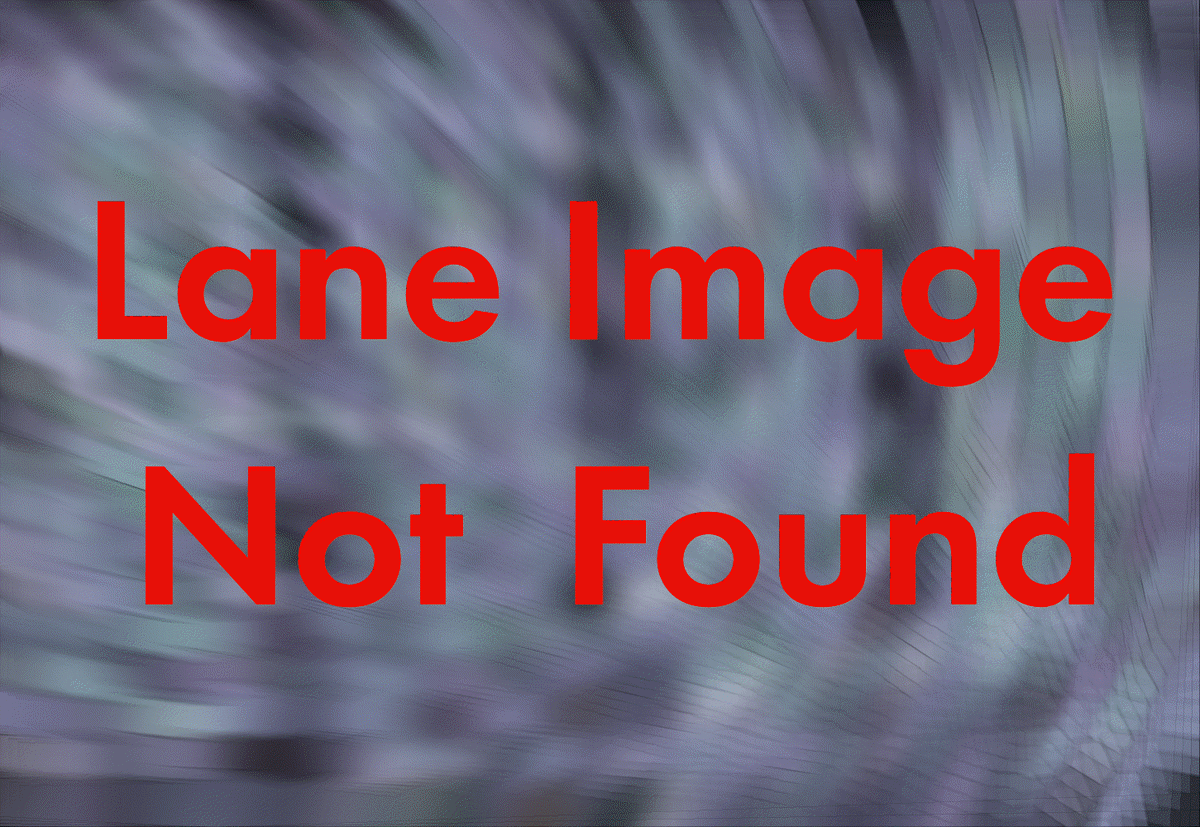
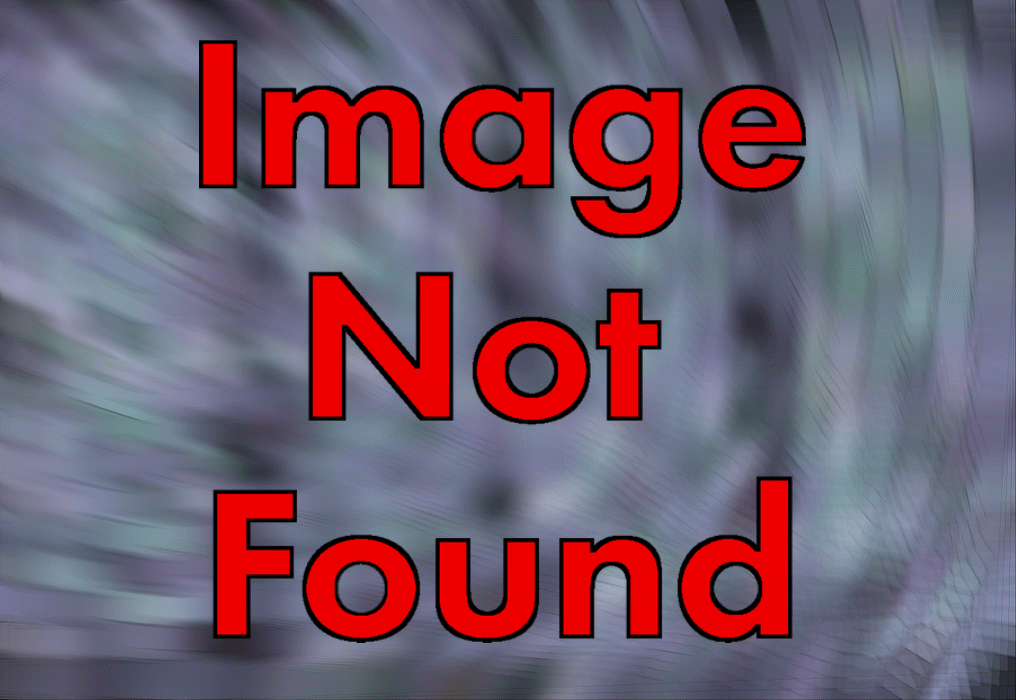
IO-485: Use report.pdf as a backup source for bead density image

Changed region(s): [[0.061, 0.06, 0.9459, 0.93]]

diff --git a/IonInspector/reports/diagnostics/Genexus_Lane_Activity/main.py b/IonInspector/reports/diagnostics/Genexus_Lane_Activity/main.py
@@ -1,9 +1,11 @@
 #!/usr/bin/env python
 
 import os
-import logging
 import shutil
+from logging import getLogger
 from collections import OrderedDict
+from subprocess import check_call
+
 from django.conf import settings
 
 from IonInspector.reports.diagnostics.common.inspector_utils import (
@@ -14,23 +16,15 @@ from IonInspector.reports.diagnostics.common.inspector_utils import (
     write_results_from_template,
     get_filePath,
 )
+from IonInspector.reports.diagnostics.common.inspector_errors import FileNotFoundError
 from IonInspector.reports.values import (
     BEAD_DENSITY_FILE_NAME,
     NO_BEAD_IMAGE_FILE,
     NO_BEAD_IMAGE_URL,
+    RUN_REPORT_PDF,
 )
 
-# NO_BEAD_IMAGE_URL = "static/img/no-bead-density-found.png"
-# NO_BEAD_IMAGE_FILE = os.path.normpath(
-# os.path.join(
-# os.path.dirname(
-# os.path.realpath(__file__)
-# ),
-# "../../../" + NO_BEAD_IMAGE_URL
-# )
-# )
-
-logger = logging.getLogger(__name__)
+logger = getLogger(__name__)
 
 
 def get_total_reads(archive_path, archive_type):
@@ -40,6 +34,8 @@ def get_total_reads(archive_path, archive_type):
 
 
 def execute(archive_path, output_path, archive_type):
+    total_reads = 0
+    active_lanes = -1
     data = read_explog(archive_path)
     lanes = OrderedDict()
     image_messages = []
@@ -82,6 +78,9 @@ def execute(archive_path, output_path, archive_type):
                         )
                     except IOError:
                         image_messages.append("Could not find '{}'".format(filename))
+    except FileNotFoundError as err:
+        logger.error(err.file_path)
+        image_messages.append("Could not find '{}'".format(err.file_path))
     finally:
         # copy bead density
         bead_image_path = os.path.join(output_path, BEAD_DENSITY_FILE_NAME)
@@ -89,37 +88,50 @@ def execute(archive_path, output_path, archive_type):
         try:
             bead_image_found = get_filePath(archive_path, BEAD_DENSITY_FILE_NAME)
             if bead_image_found is None:
-                bead_messages.append("Could not find bead density image!")
-                os.symlink(NO_BEAD_IMAGE_FILE, bead_image_path)
-            else:
-                bead_image_url = settings.MEDIA_URL + os.path.relpath(
-                    bead_image_path, settings.MEDIA_ROOT
-                )
-                os.symlink(bead_image_found, bead_image_path)
+                report_pdf_path = os.path.join(archive_path, RUN_REPORT_PDF)
+                if os.path.exists(report_pdf_path):
+                    extract_util = [
+                        "./IonInspector/reports/diagnostics/Genexus_Lane_Activity/extract_bead_density.sh",
+                        output_path,
+                    ]
+                    check_call(extract_util)
+                if os.path.exists(bead_image_path):
+                    bead_image_found = bead_image_path
+                else:
+                    bead_messages.append("Could not find bead density image!")
         except IOError as err:
+            bead_image_found = None
             bead_messages.append(
                 "I/O Error accessing bead density image: " + err.message
             )
-            bead_image_url = NO_BEAD_IMAGE_URL
+        if bead_image_found is None:
             os.symlink(NO_BEAD_IMAGE_FILE, bead_image_path)
+        else:
+            bead_image_url = settings.MEDIA_URL + os.path.relpath(
+                bead_image_path, settings.MEDIA_ROOT
+            )
+            if bead_image_found != bead_image_path:
+                os.symlink(bead_image_found, bead_image_path)
 
     # write template
-    write_results_from_template(
-        {
-            "lanes": lanes,
-            "bead_image_url": bead_image_url,
-            "total_reads": total_reads,
-            "active_lanes": active_lanes,
-            "average_reads_per_lane": total_reads / active_lanes,
-        },
-        output_path,
-        os.path.dirname(os.path.realpath(__file__)),
-    )
+    if active_lanes > 0:
+        write_results_from_template(
+            {
+                "lanes": lanes,
+                "bead_image_url": bead_image_url,
+                "total_reads": total_reads,
+                "active_lanes": active_lanes,
+                "average_reads_per_lane": total_reads / active_lanes,
+            },
+            output_path,
+            os.path.dirname(os.path.realpath(__file__)),
+        )
 
     messages = bead_messages + [
         "<strong>L{}</strong> {}".format(k, v[1]) for k, v in lanes.items() if v[0]
     ]
-    # image_messages
+
+    # summary message and result code
     if len(image_messages) > 0:
         if len(image_messages) > 1:
             messages.append(
@@ -128,6 +140,6 @@ def execute(archive_path, output_path, archive_type):
         else:
             messages.extend(image_messages)
     message = "<br>".join(messages)
-    if len(bead_messages) > 0:
+    if active_lanes <= 0 or len(bead_messages) > 0:
         return print_failed(message)
     return print_info(message)

diff --git a/IonInspector/reports/diagnostics/common/inspector_utils.py b/IonInspector/reports/diagnostics/common/inspector_utils.py
@@ -16,7 +16,7 @@ from bs4 import BeautifulSoup
 from django.core.serializers.json import DjangoJSONEncoder
 from django.template import Context, Template
 from django.template.backends.django import DjangoTemplates
-from reports.values import (
+from IonInspector.reports.values import (
     PGM_RUN,
     PROTON,
     S5,
@@ -25,7 +25,7 @@ from reports.values import (
     PURIFICATION_BATCH_ID,
     PURE,
 )
-from reports.diagnostics.common.inspector_errors import (
+from IonInspector.reports.diagnostics.common.inspector_errors import (
     FileNotFoundError,
     FilesNotFoundError,
 )
